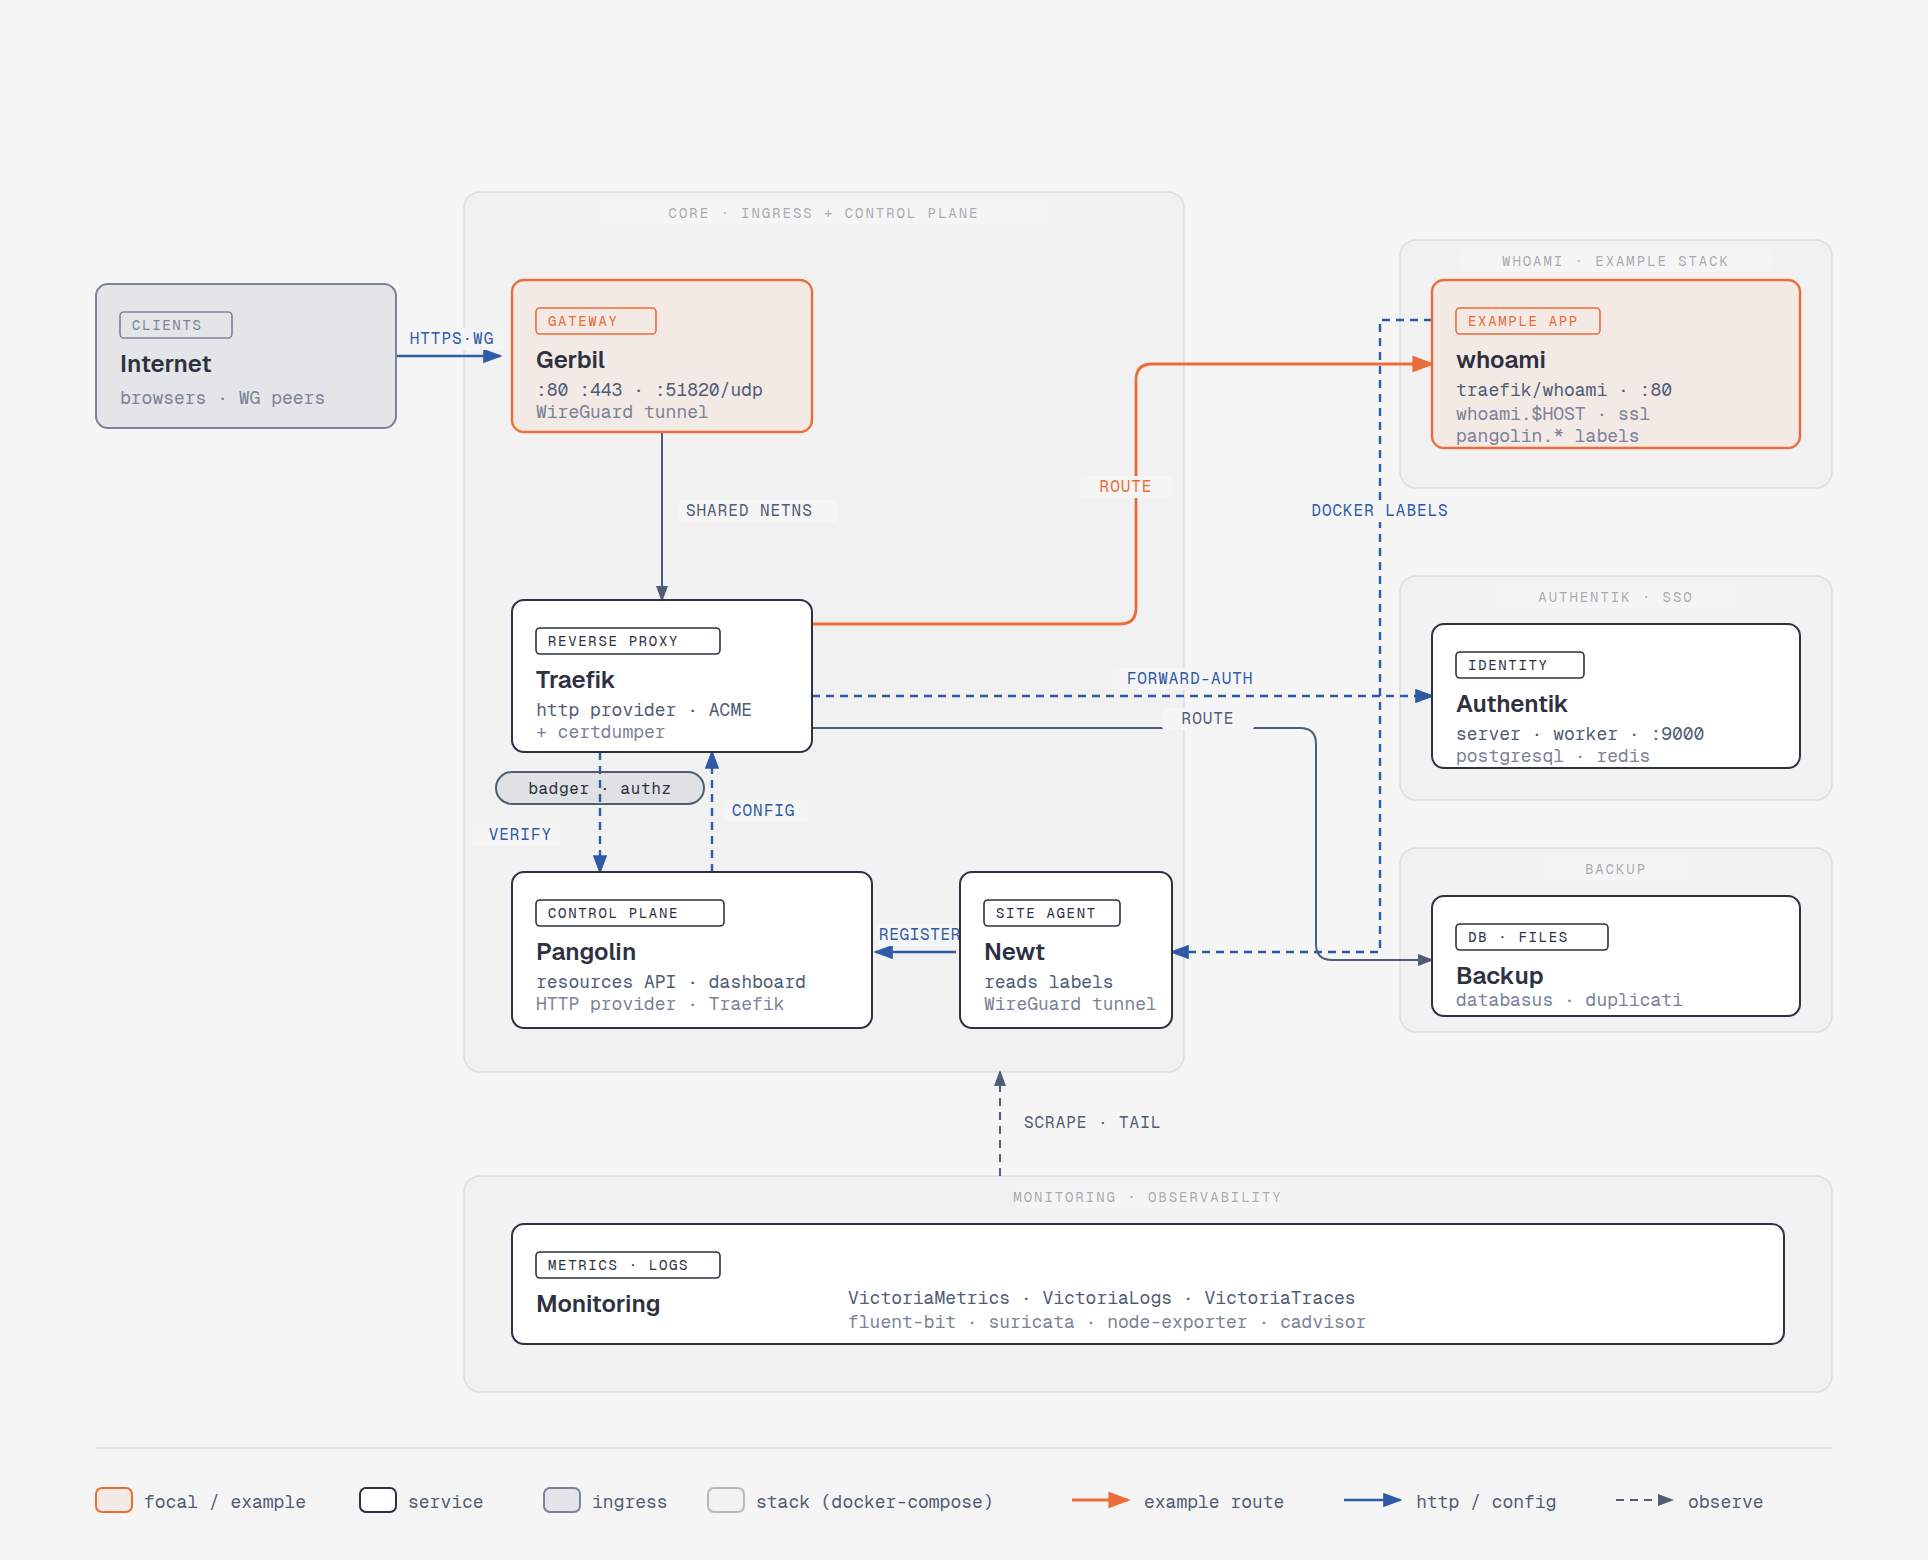
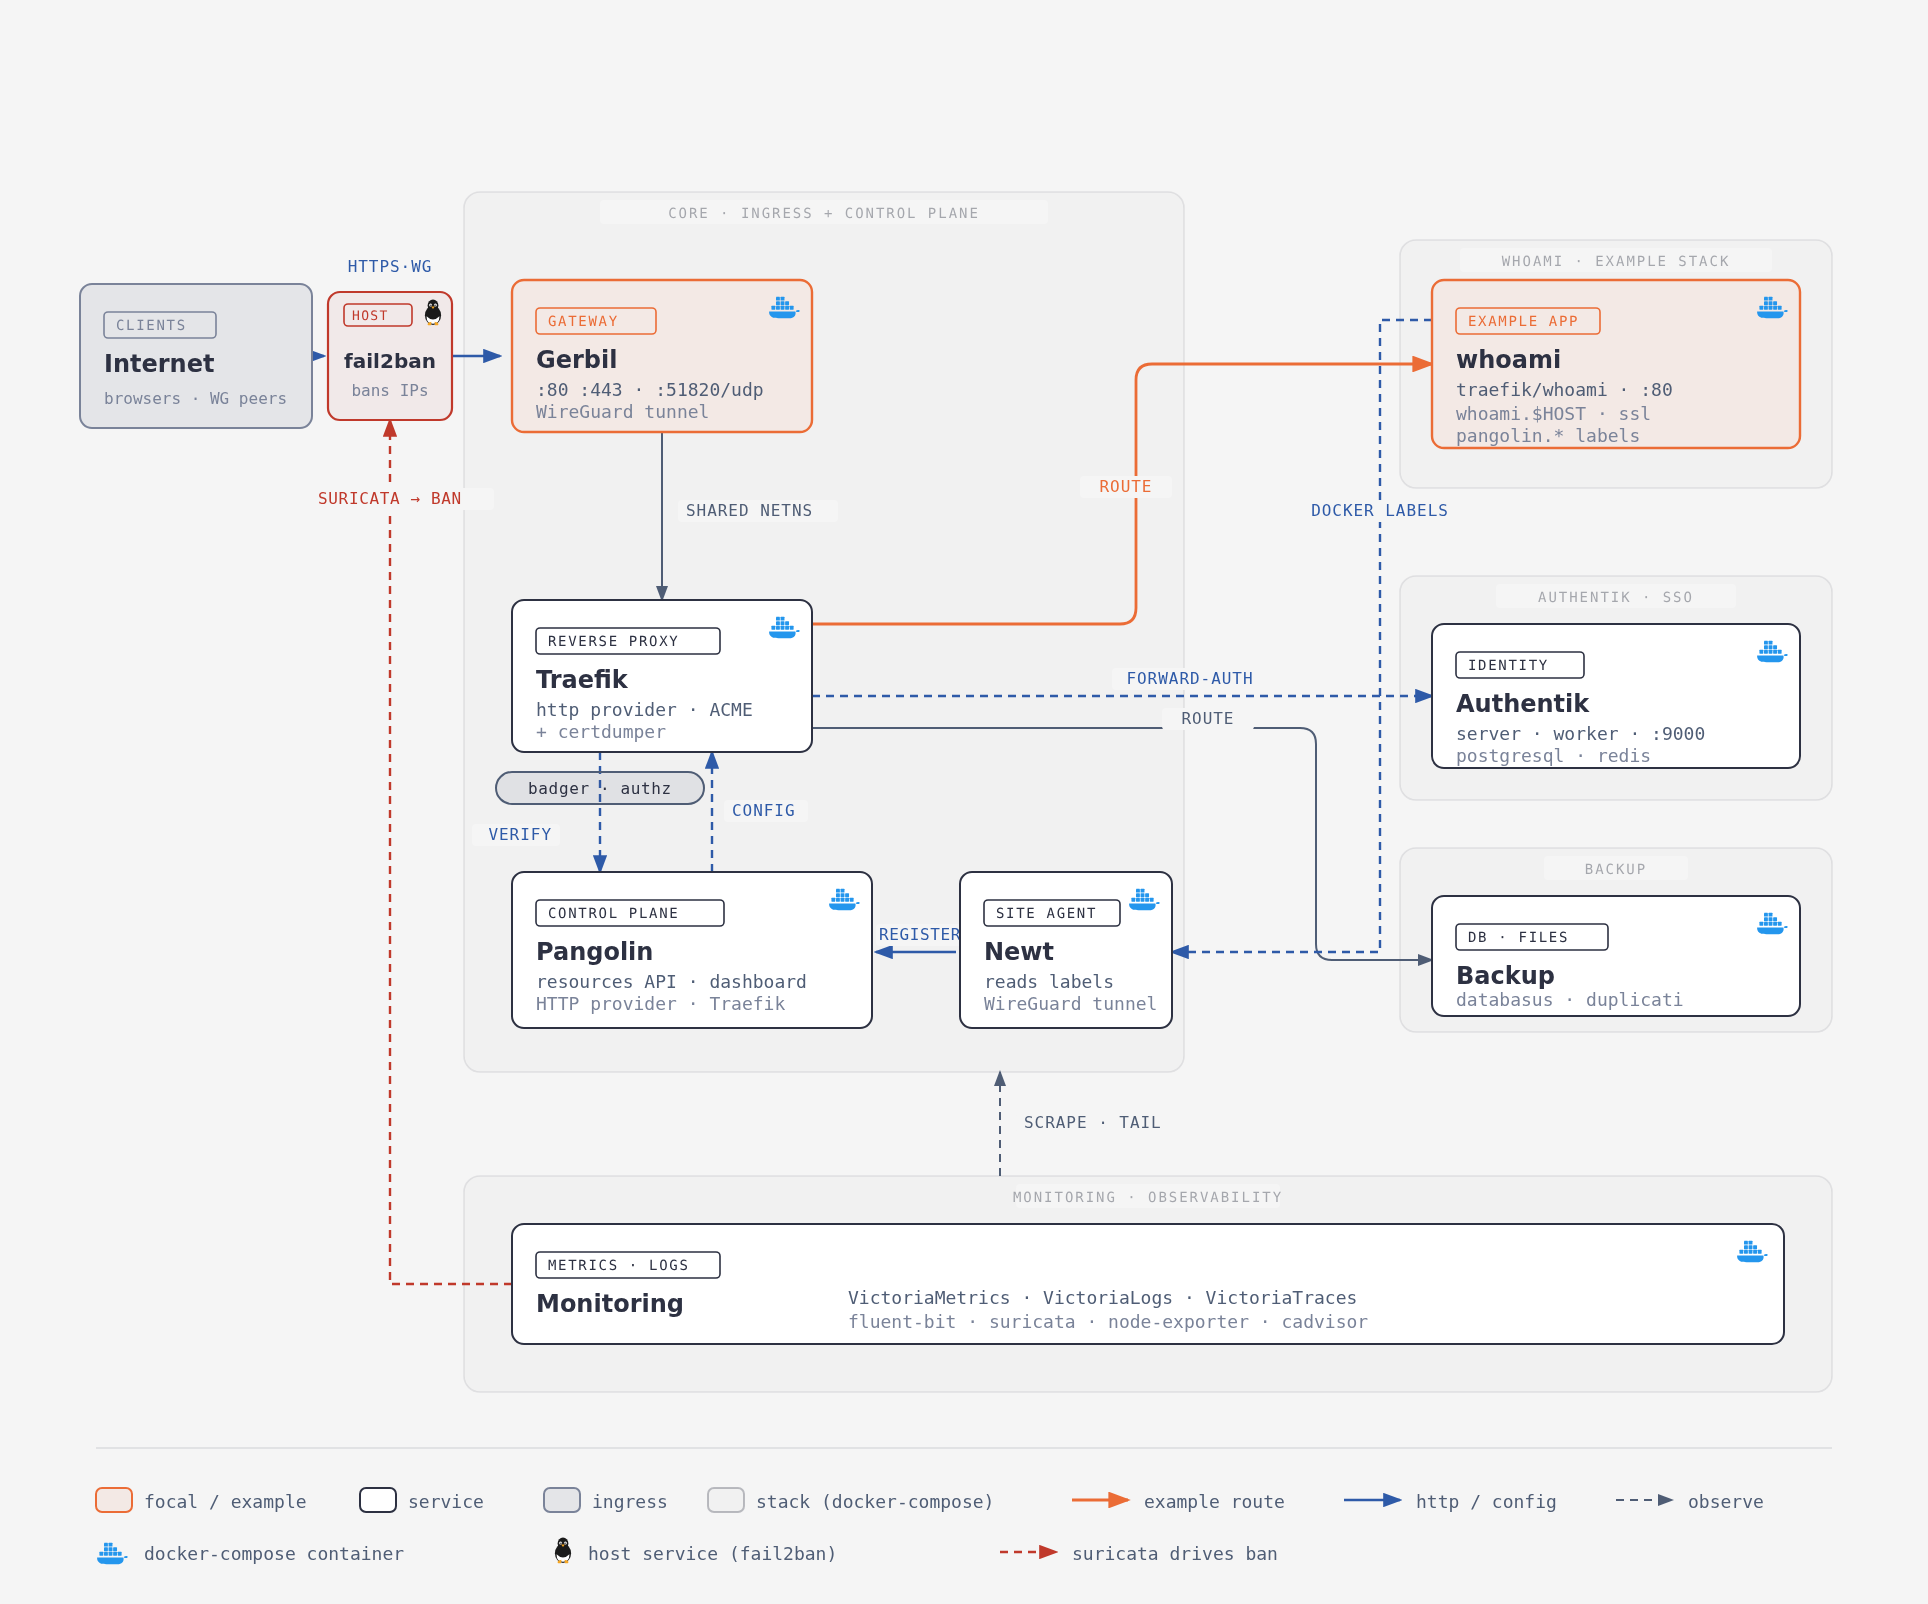
Added fail2ban component

diff --git a/docs/platform-architecture.html b/docs/platform-architecture.html
@@ -59,13 +59,46 @@
     <h1>JohnCloud Platform — four stacks, one ingress, routed through Traefik</h1>
 
     <div class="diagram-container">
-      <svg viewBox="0 0 964 780" xmlns="http://www.w3.org/2000/svg" role="img" aria-labelledby="platform-arch-title platform-arch-desc">
+      <svg viewBox="0 0 964 802" xmlns="http://www.w3.org/2000/svg" role="img" aria-labelledby="platform-arch-title platform-arch-desc">
         <title id="platform-arch-title">JohnCloud Platform Architecture</title>
-        <desc id="platform-arch-desc">Public traffic enters the Gerbil WireGuard gateway and is terminated by Traefik, which pulls its routing configuration from the Pangolin control plane and fans requests out to the authentik, backup and example application stacks, while the monitoring stack observes the whole platform.</desc>
+        <desc id="platform-arch-desc">Public traffic first passes the fail2ban host firewall — driven by Suricata in the monitoring stack — then enters the Gerbil WireGuard gateway and is terminated by Traefik, which pulls its routing configuration from the Pangolin control plane and fans requests out to the authentik, backup and example application stacks, while the monitoring stack observes the whole platform. Every docker-compose managed container is marked with a Docker whale; fail2ban runs on the host and is marked with a Linux penguin.</desc>
         <defs>
           <marker id="arrow" markerWidth="8" markerHeight="6" refX="7" refY="3" orient="auto"><polygon points="0 0, 8 3, 0 6" fill="#4f5d75"/></marker>
           <marker id="arrow-accent" markerWidth="8" markerHeight="6" refX="7" refY="3" orient="auto"><polygon points="0 0, 8 3, 0 6" fill="#eb6c36"/></marker>
           <marker id="arrow-link" markerWidth="8" markerHeight="6" refX="7" refY="3" orient="auto"><polygon points="0 0, 8 3, 0 6" fill="#2e5aa8"/></marker>
+          <marker id="arrow-ban" markerWidth="8" markerHeight="6" refX="7" refY="3" orient="auto"><polygon points="0 0, 8 3, 0 6" fill="#c0392b"/></marker>
+
+          <!-- Docker whale (marks docker-compose managed containers) -->
+          <symbol id="ico-docker" viewBox="0 0 28 22">
+            <g fill="#2496ED">
+              <rect x="7"  y="2"  width="3.4" height="3.4" rx="0.4"/>
+              <rect x="11" y="2"  width="3.4" height="3.4" rx="0.4"/>
+              <rect x="7"  y="6"  width="3.4" height="3.4" rx="0.4"/>
+              <rect x="11" y="6"  width="3.4" height="3.4" rx="0.4"/>
+              <rect x="15" y="6"  width="3.4" height="3.4" rx="0.4"/>
+              <rect x="3"  y="10" width="3.4" height="3.4" rx="0.4"/>
+              <rect x="7"  y="10" width="3.4" height="3.4" rx="0.4"/>
+              <rect x="11" y="10" width="3.4" height="3.4" rx="0.4"/>
+              <rect x="15" y="10" width="3.4" height="3.4" rx="0.4"/>
+              <rect x="19" y="10" width="3.4" height="3.4" rx="0.4"/>
+            </g>
+            <path d="M1 15 h23 c0.6 2.4 -0.4 5.4 -4 5.8 c-1.2 0.1 -14 0.1 -15.2 -0.4 C1.6 19.4 0.8 17 1 15 Z" fill="#2496ED"/>
+            <path d="M24.5 14.2 c1.6 -1.1 3.1 -0.4 3.3 0.2 c-0.4 1 -1.9 1.3 -3 0.9" fill="#2496ED"/>
+          </symbol>
+
+          <!-- Tux (marks a service running on the host, not in docker) -->
+          <symbol id="ico-linux" viewBox="0 0 20 26">
+            <ellipse cx="10" cy="16" rx="7.5" ry="9" fill="#1b1b1b"/>
+            <ellipse cx="10" cy="7" rx="5" ry="5.5" fill="#1b1b1b"/>
+            <path d="M4 17 q6 6 12 0 q0 7 -6 7 q-6 0 -6 -7 Z" fill="#ffffff"/>
+            <circle cx="7.8" cy="6.5" r="1.4" fill="#fff"/>
+            <circle cx="12.2" cy="6.5" r="1.4" fill="#fff"/>
+            <circle cx="8.1" cy="6.8" r="0.7" fill="#1b1b1b"/>
+            <circle cx="11.9" cy="6.8" r="0.7" fill="#1b1b1b"/>
+            <path d="M8.3 8 h3.4 l-1.7 2.2 Z" fill="#f5a623"/>
+            <path d="M5.5 23 q-1.5 2.4 1.2 2.4 h1.5 l0.3 -3.4 Z" fill="#f5a623"/>
+            <path d="M14.5 23 q1.5 2.4 -1.2 2.4 h-1.5 l-0.3 -3.4 Z" fill="#f5a623"/>
+          </symbol>
         </defs>
 
         <rect width="100%" height="100%" fill="#f5f5f5"/>
@@ -97,10 +130,17 @@
         <text x="574" y="601" fill="rgba(45,49,66,0.40)" font-size="7" font-family="'Geist Mono', monospace" text-anchor="middle" letter-spacing="0.14em">MONITORING · OBSERVABILITY</text>
 
         <!-- ============ ARROWS (drawn before nodes) ============ -->
-        <!-- A1 Internet -> Gerbil : HTTPS / WG -->
-        <line x1="198" y1="178" x2="250" y2="178" stroke="#2e5aa8" stroke-width="1.2" marker-end="url(#arrow-link)"/>
-        <rect x="200" y="164" width="52" height="11" rx="2" fill="#f5f5f5"/>
-        <text x="226" y="172" fill="#2e5aa8" font-size="8" font-family="'Geist Mono', monospace" text-anchor="middle" letter-spacing="0.06em">HTTPS·WG</text>
+        <!-- A1a Internet -> fail2ban (host firewall in the traffic path) -->
+        <line x1="156" y1="178" x2="162" y2="178" stroke="#2e5aa8" stroke-width="1.2" marker-end="url(#arrow-link)"/>
+        <!-- A1b fail2ban -> Gerbil : HTTPS / WG -->
+        <line x1="226" y1="178" x2="250" y2="178" stroke="#2e5aa8" stroke-width="1.2" marker-end="url(#arrow-link)"/>
+        <rect x="169" y="128" width="52" height="11" rx="2" fill="#f5f5f5"/>
+        <text x="195" y="136" fill="#2e5aa8" font-size="8" font-family="'Geist Mono', monospace" text-anchor="middle" letter-spacing="0.06em">HTTPS·WG</text>
+
+        <!-- A0 Suricata (monitoring) -> fail2ban : IDS drives the bans, one turn, entering from below -->
+        <path d="M256,642 H195 V210" fill="none" stroke="#c0392b" stroke-width="1.2" stroke-dasharray="4,3" marker-end="url(#arrow-ban)"/>
+        <rect x="143" y="244" width="104" height="11" rx="2" fill="#f5f5f5"/>
+        <text x="195" y="252" fill="#c0392b" font-size="8" font-family="'Geist Mono', monospace" text-anchor="middle" letter-spacing="0.04em">SURICATA → BAN</text>
 
         <!-- A2 Gerbil -> Traefik : SHARED NETNS (vertical) -->
         <line x1="331" y1="216" x2="331" y2="300" stroke="#4f5d75" stroke-width="1" marker-end="url(#arrow)"/>
@@ -150,12 +190,21 @@
         <!-- ============ NODES ============ -->
 
         <!-- N1 Internet (input) -->
-        <rect x="48" y="142" width="150" height="72" rx="6" fill="#f5f5f5"/>
-        <rect x="48" y="142" width="150" height="72" rx="6" fill="rgba(79,93,117,0.10)" stroke="#7a8399" stroke-width="1"/>
-        <rect x="60" y="156" width="56" height="13" rx="2" fill="none" stroke="#7a8399" stroke-width="0.8"/>
-        <text x="66" y="165" fill="#7a8399" font-size="7" font-family="'Geist Mono', monospace" letter-spacing="0.12em">CLIENTS</text>
-        <text x="60" y="186" fill="#2d3142" font-size="12" font-family="'Geist', sans-serif" font-weight="600">Internet</text>
-        <text x="60" y="202" fill="#7a8399" font-size="9" font-family="'Geist Mono', monospace">browsers · WG peers</text>
+        <rect x="40" y="142" width="116" height="72" rx="6" fill="#f5f5f5"/>
+        <rect x="40" y="142" width="116" height="72" rx="6" fill="rgba(79,93,117,0.10)" stroke="#7a8399" stroke-width="1"/>
+        <rect x="52" y="156" width="56" height="13" rx="2" fill="none" stroke="#7a8399" stroke-width="0.8"/>
+        <text x="58" y="165" fill="#7a8399" font-size="7" font-family="'Geist Mono', monospace" letter-spacing="0.12em">CLIENTS</text>
+        <text x="52" y="186" fill="#2d3142" font-size="12" font-family="'Geist', sans-serif" font-weight="600">Internet</text>
+        <text x="52" y="202" fill="#7a8399" font-size="8" font-family="'Geist Mono', monospace">browsers · WG peers</text>
+
+        <!-- N1b fail2ban (host service — not docker, marked with Tux) -->
+        <rect x="164" y="146" width="62" height="64" rx="6" fill="#f5f5f5"/>
+        <rect x="164" y="146" width="62" height="64" rx="6" fill="rgba(192,57,43,0.06)" stroke="#c0392b" stroke-width="1.1"/>
+        <rect x="172" y="152" width="34" height="11" rx="2" fill="none" stroke="#c0392b" stroke-width="0.8"/>
+        <text x="176" y="160" fill="#c0392b" font-size="6.5" font-family="'Geist Mono', monospace" letter-spacing="0.1em">HOST</text>
+        <use href="#ico-linux" x="211" y="149" width="11" height="14"/>
+        <text x="195" y="184" fill="#2d3142" font-size="10" font-family="'Geist', sans-serif" font-weight="600" text-anchor="middle">fail2ban</text>
+        <text x="195" y="198" fill="#7a8399" font-size="8" font-family="'Geist Mono', monospace" text-anchor="middle">bans IPs</text>
 
         <!-- N2 Gerbil (focal — gateway) -->
         <rect x="256" y="140" width="150" height="76" rx="6" fill="#f5f5f5"/>
@@ -233,6 +282,16 @@
         <text x="424" y="652" fill="#4f5d75" font-size="9" font-family="'Geist Mono', monospace">VictoriaMetrics · VictoriaLogs · VictoriaTraces</text>
         <text x="424" y="664" fill="#7a8399" font-size="9" font-family="'Geist Mono', monospace">fluent-bit · suricata · node-exporter · cadvisor</text>
 
+        <!-- ============ DOCKER ICONS (one per docker-compose container) ============ -->
+        <use href="#ico-docker" x="384" y="147" width="16" height="13"/>  <!-- Gerbil -->
+        <use href="#ico-docker" x="384" y="307" width="16" height="13"/>  <!-- Traefik -->
+        <use href="#ico-docker" x="414" y="443" width="16" height="13"/>  <!-- Pangolin -->
+        <use href="#ico-docker" x="564" y="443" width="16" height="13"/>  <!-- Newt -->
+        <use href="#ico-docker" x="878" y="147" width="16" height="13"/>  <!-- whoami -->
+        <use href="#ico-docker" x="878" y="319" width="16" height="13"/>  <!-- Authentik -->
+        <use href="#ico-docker" x="878" y="455" width="16" height="13"/>  <!-- Backup -->
+        <use href="#ico-docker" x="868" y="619" width="16" height="13"/>  <!-- Monitoring -->
+
         <!-- ============ LEGEND (bottom strip) ============ -->
         <line x1="48" y1="724" x2="916" y2="724" stroke="rgba(45,49,66,0.12)" stroke-width="0.8"/>
 
@@ -256,6 +315,16 @@
 
         <line x1="808" y1="750" x2="836" y2="750" stroke="#4f5d75" stroke-width="1" stroke-dasharray="4,3" marker-end="url(#arrow)"/>
         <text x="844" y="754" fill="#4f5d75" font-size="9" font-family="'Geist Mono', monospace">observe</text>
+
+        <!-- second legend row: icons + ban signal -->
+        <use href="#ico-docker" x="48" y="770" width="16" height="13"/>
+        <text x="72" y="780" fill="#4f5d75" font-size="9" font-family="'Geist Mono', monospace">docker-compose container</text>
+
+        <use href="#ico-linux" x="276" y="768" width="11" height="14"/>
+        <text x="294" y="780" fill="#4f5d75" font-size="9" font-family="'Geist Mono', monospace">host service (fail2ban)</text>
+
+        <line x1="500" y1="776" x2="528" y2="776" stroke="#c0392b" stroke-width="1.2" stroke-dasharray="4,3" marker-end="url(#arrow-ban)"/>
+        <text x="536" y="780" fill="#4f5d75" font-size="9" font-family="'Geist Mono', monospace">suricata drives ban</text>
       </svg>
     </div>
   </div>
